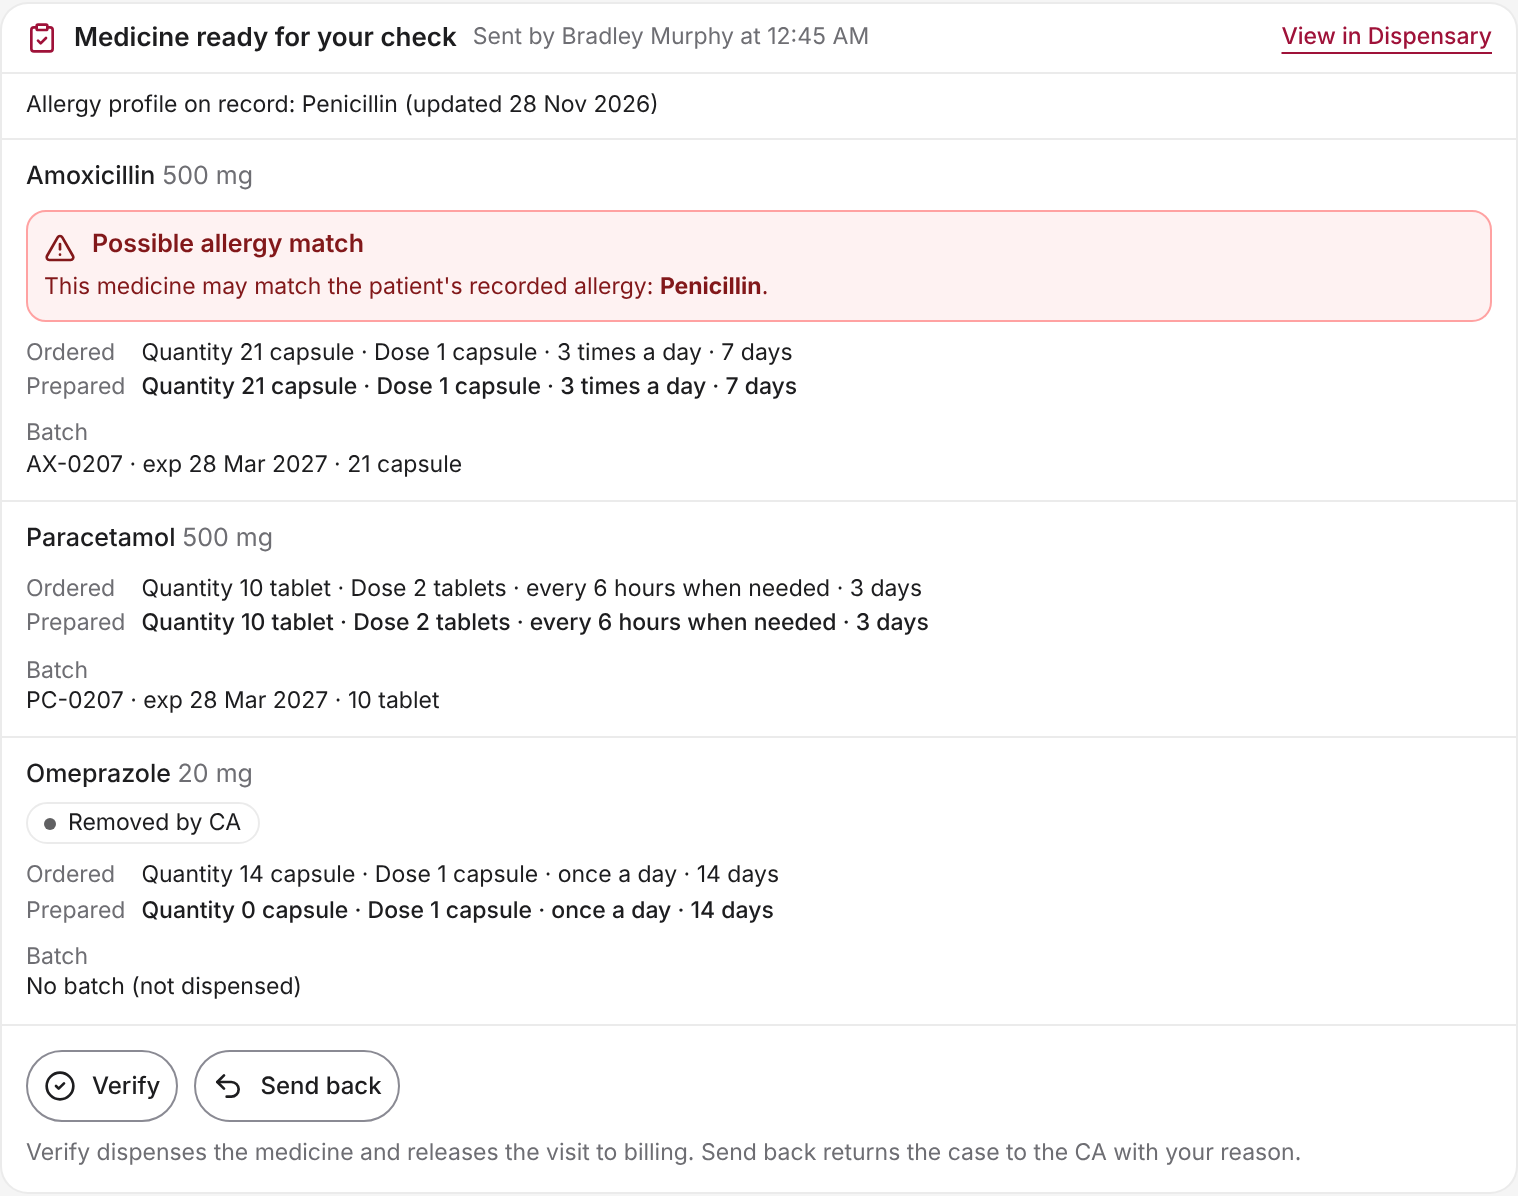
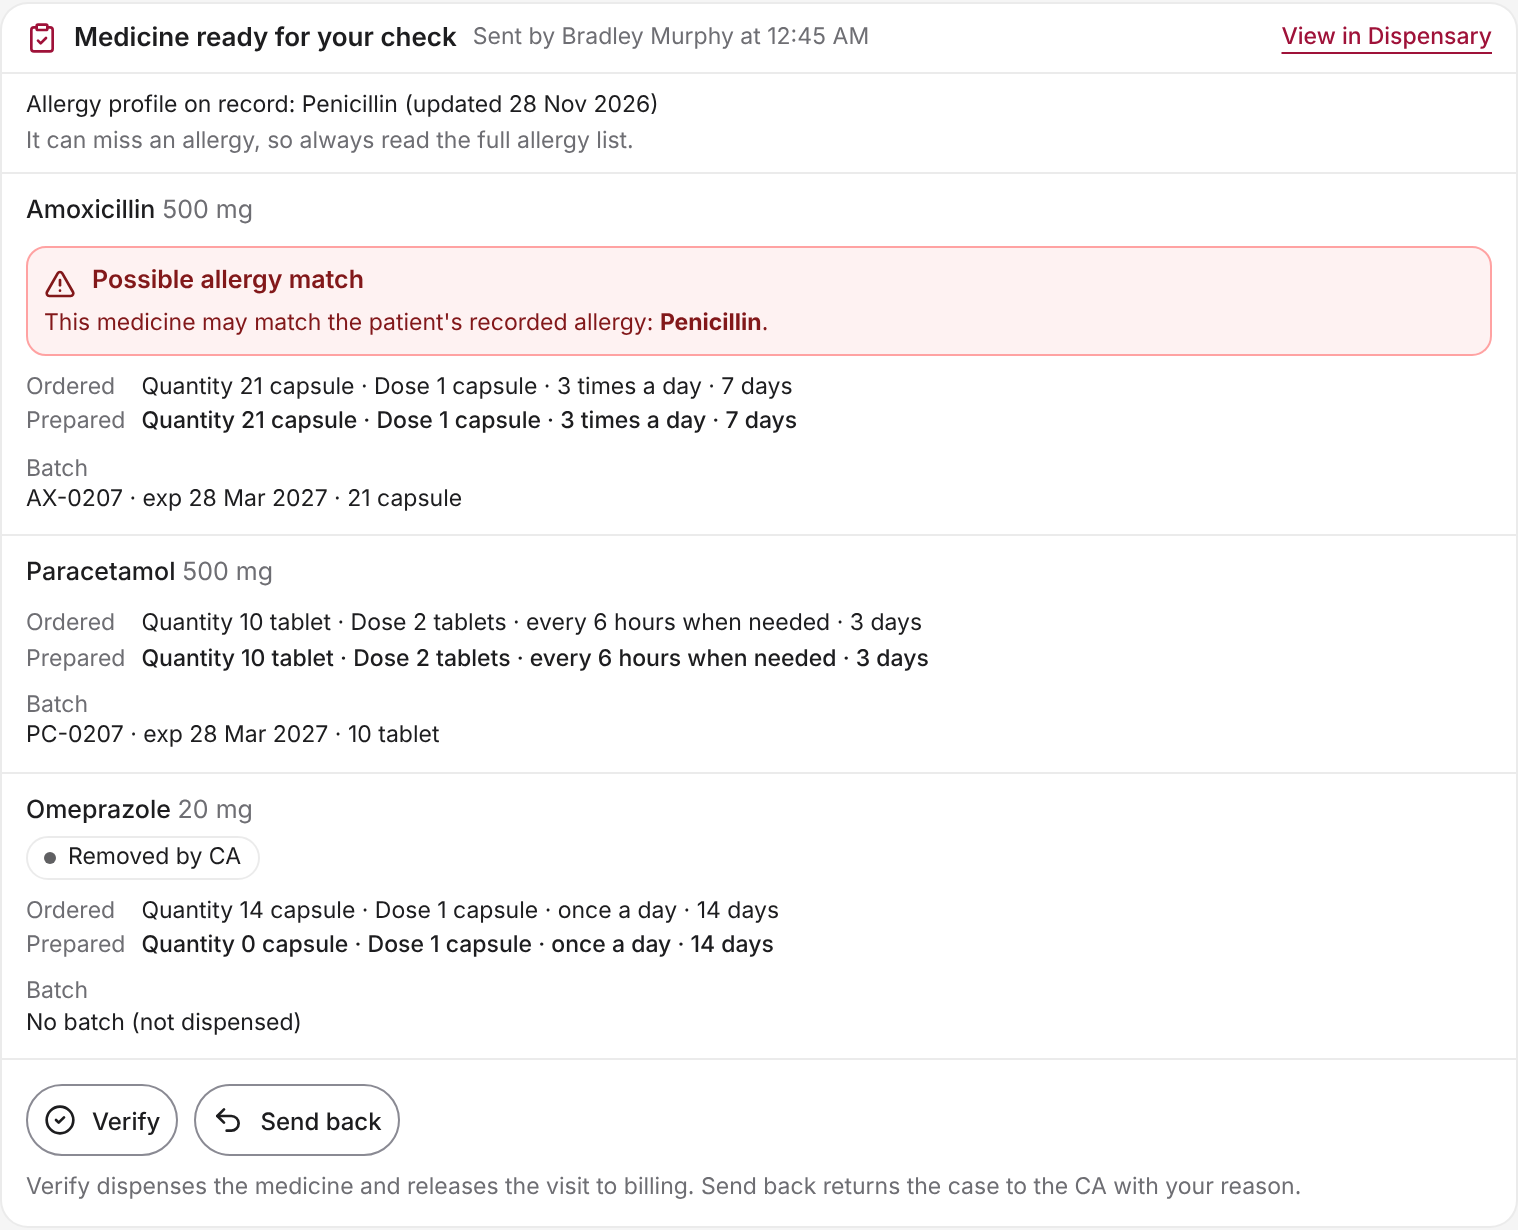
DSP-29 shots refreshed: panel-level caveat line (Daniel)
Claude-Session: https://claude.ai/code/session_01MHFmnWUBhWomNKU2JdMyPp

diff --git a/docs/validation/dsp-29/README.md b/docs/validation/dsp-29/README.md
@@ -1,6 +1,6 @@
 # DSP-29 part B screenshots: allergy mark in the doctor's check panel (synthetic data)
 
-Code head: `d4c6fb2b` on `feature/dsp-29-doctor-allergy-mark`. Evidence only; not for merge. 1440 px light and dark,
+Code head: `cc0b84879` (shots refreshed; first set was `d4c6fb2b`) on `feature/dsp-29-doctor-allergy-mark`. Evidence only; not for merge. 1440 px light and dark,
 390 px light and dark, deviceScaleFactor 2. Task-owned PostgreSQL 18.7 database `kpone_dsp29_shots`, seeded with
 synthetic data through the real services (allergy recorded and reviewed, plan sent, CA prepares and removes a line,
 sent for the doctor's check).
@@ -16,6 +16,11 @@ The case has three lines:
 
 Sideways overflow is 0 px and there are no console errors (measurements.txt).
 
-Question for Daniel: the compact form in the panel leaves out "It can miss an allergy, so always read the full allergy
-list." (the full form keeps it). Hakim thinks this is acceptable because the panel's own line just above lists every
-recorded allergy ("Allergy profile on record: …"). Keep it compact, or add the sentence?
+Daniel (27 Nov): OK. The caveat "It can miss an allergy, so always read the full allergy list." now shows once per panel,
+as a muted line under "Allergy profile on record: …", on every panel including when nothing matches (not inside the
+red box). The wording still needs a doctor's or pharmacist's approval.
+
+The amber header banner on `page-*` ("Allergy information is unavailable for this consultation") is not from the
+synthetic data: the header loads allergies only while the queue entry is Serving, and the check panel appears only
+after the medicine has gone to Dispensary, so a real doctor sees both. Not changed in this slice (reported to the
+coordinator with two options).
